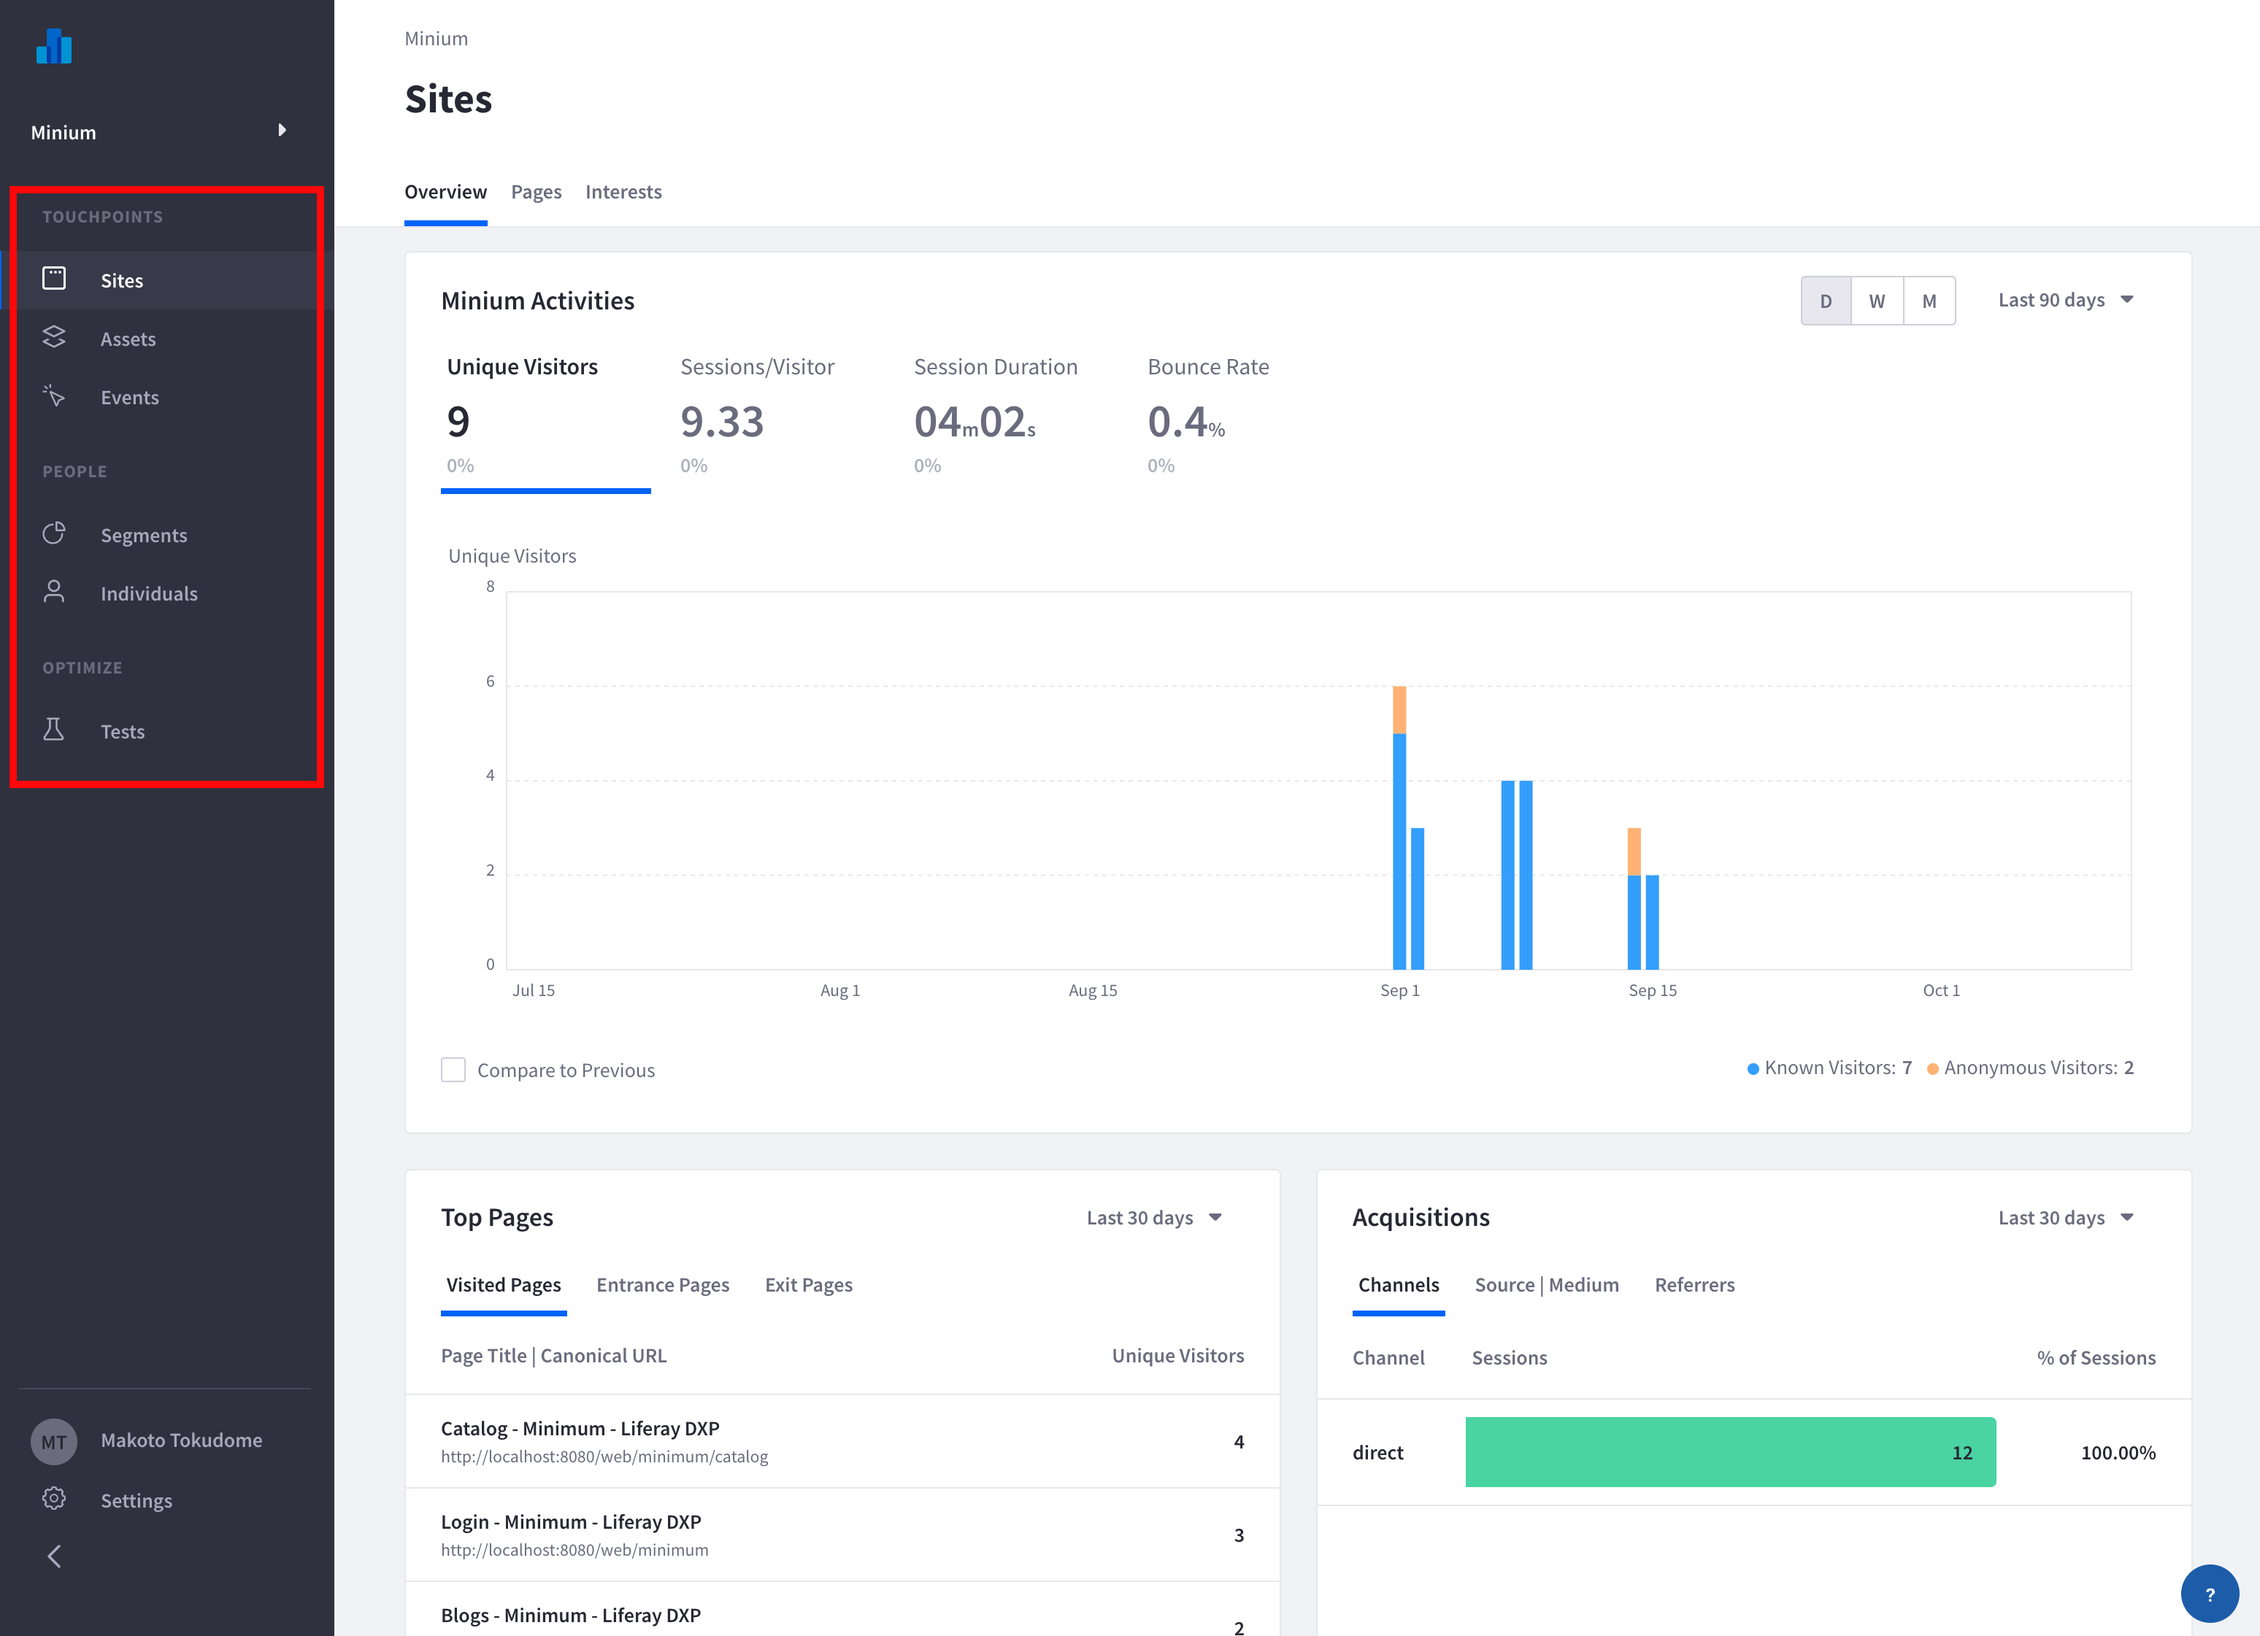
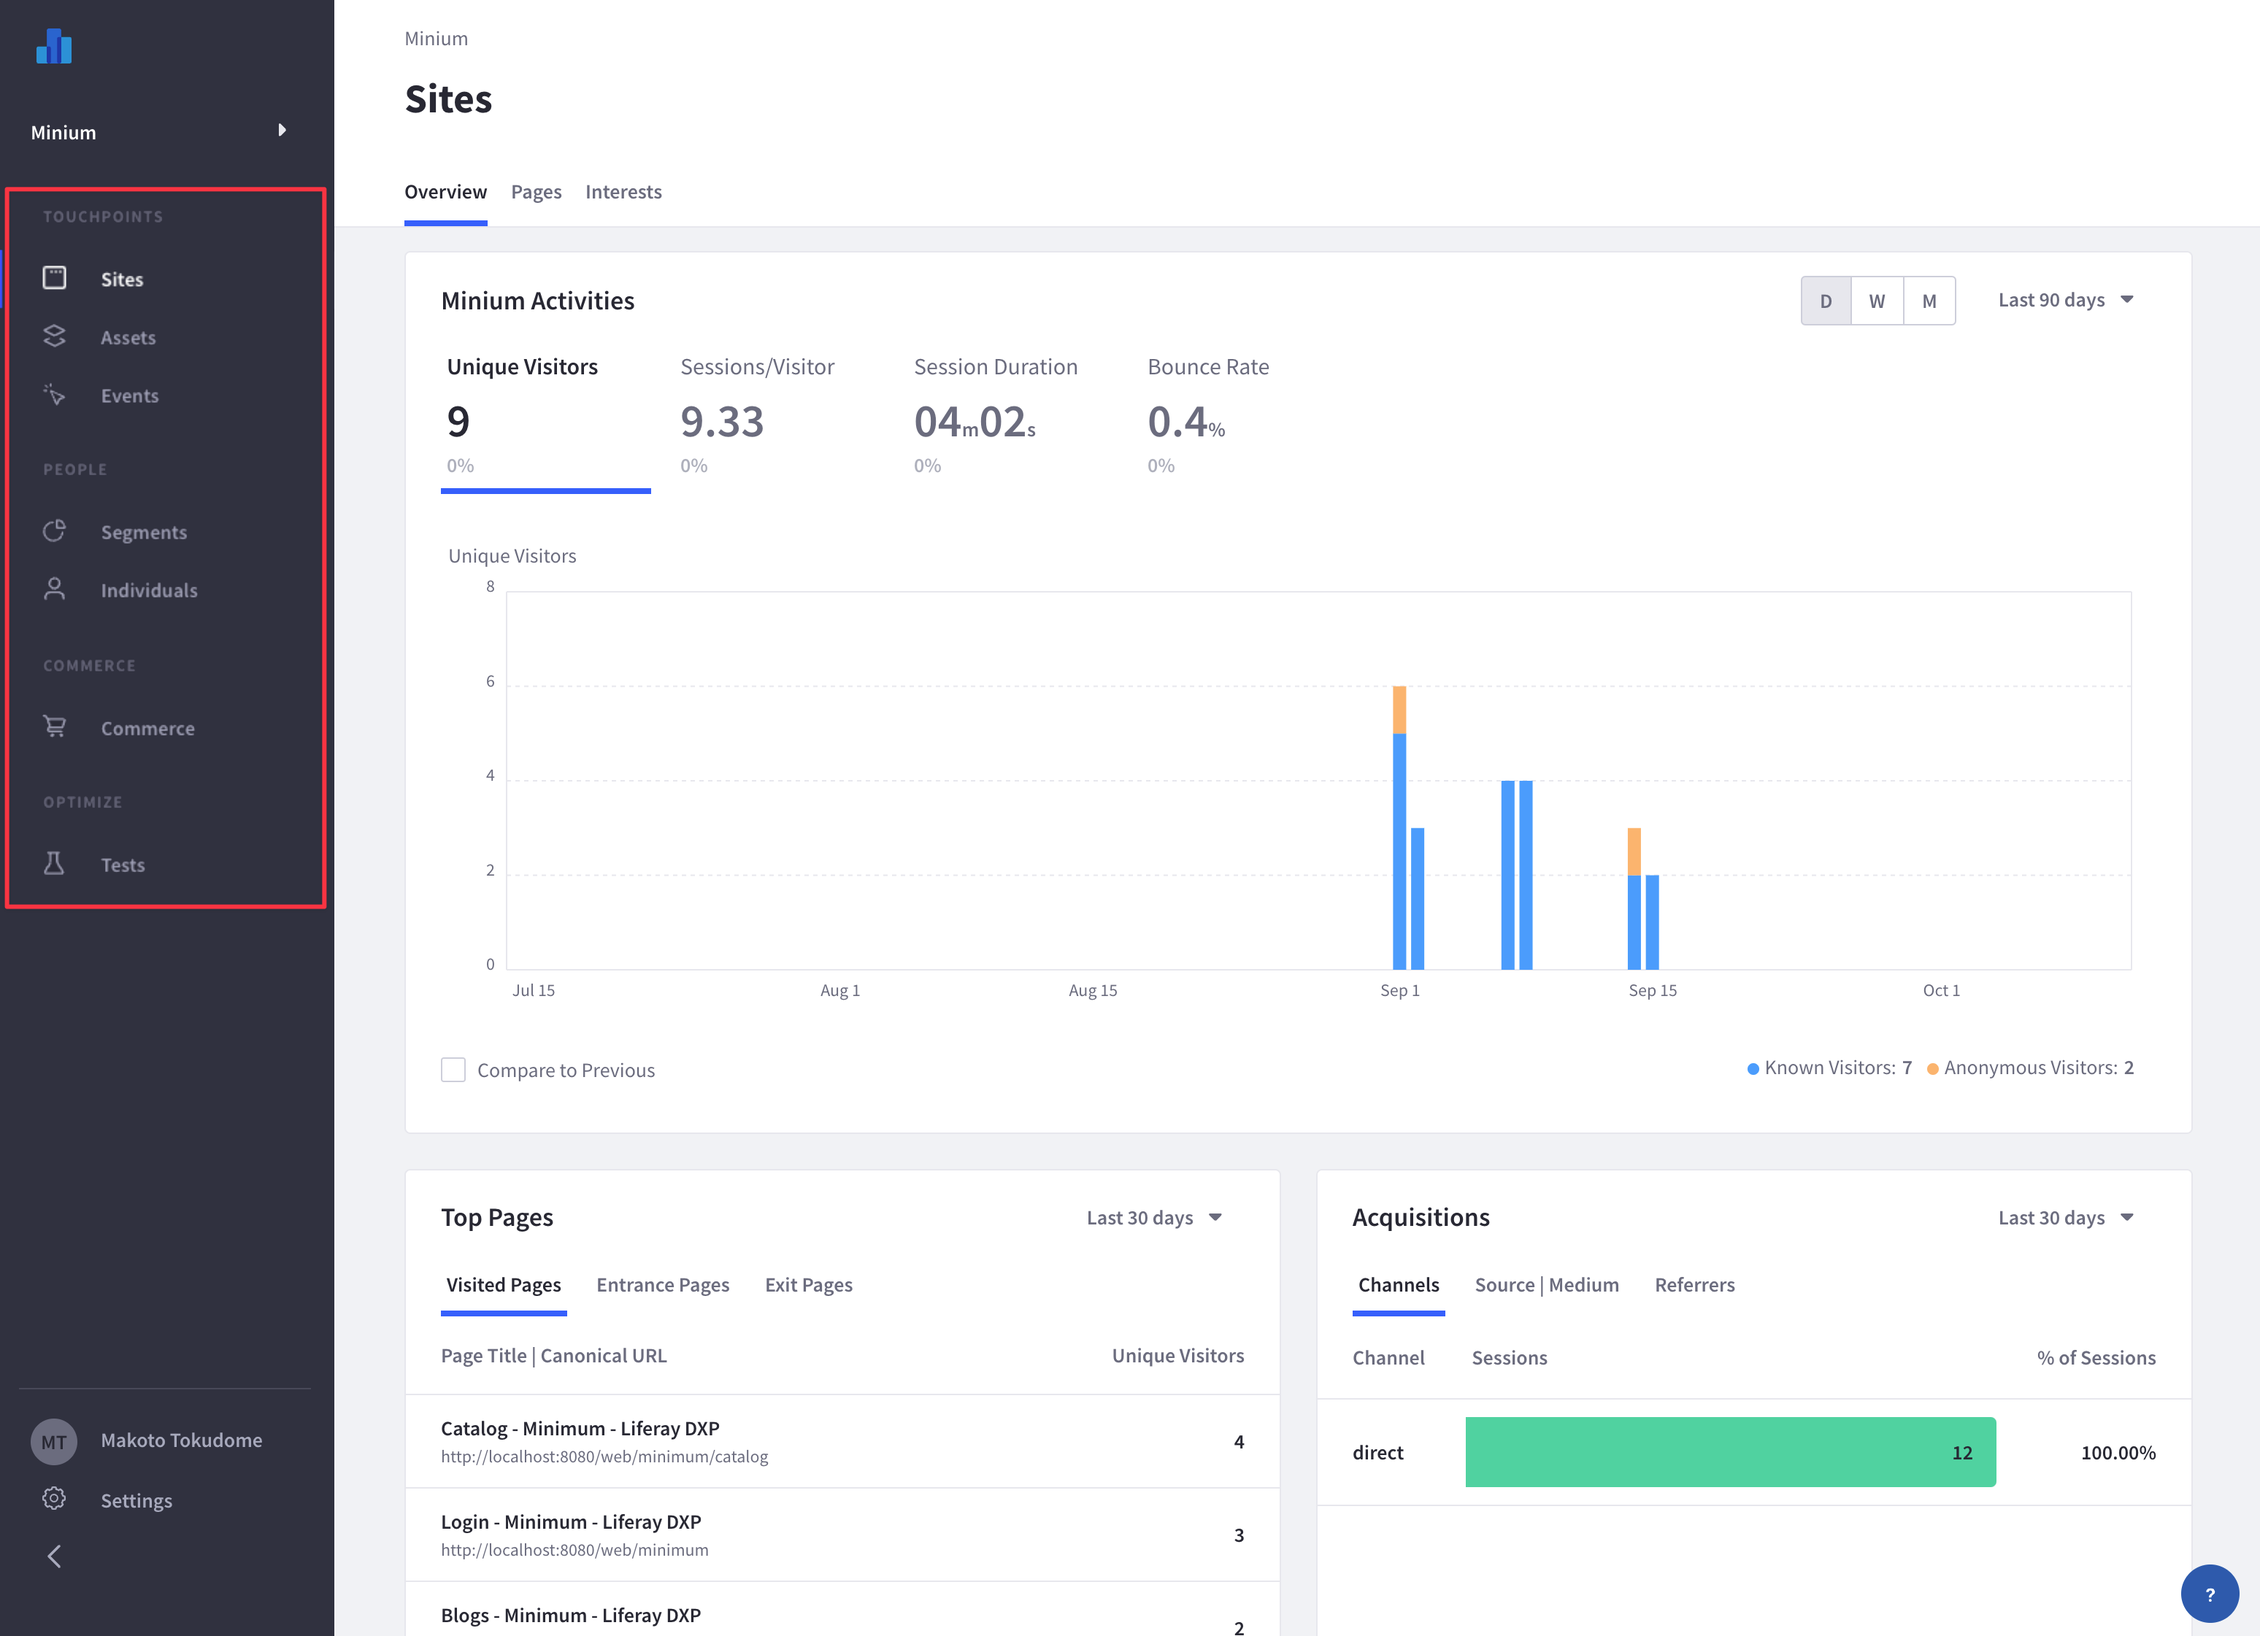
LRDOCS-10561 updates Viewing the Analytics Dashboard w/imgs

diff --git a/docs/analytics-cloud/latest/en/getting-started/viewing-the-analytics-dashboard.md b/docs/analytics-cloud/latest/en/getting-started/viewing-the-analytics-dashboard.md
@@ -3,7 +3,7 @@ uuid: 1f7b693c-0b64-4c16-965b-4cb85875e0f4
 ---
 # Viewing the Analytics Dashboard
 
-Once your [Liferay site and contacts are synced](syncing-sites-and-contacts.md), Analytics Cloud automatically begins tracking visitors to your site and how they're interacting with your site's content. The next steps are to explore the different tools available through the navigation menu on the left.
+Once your [data is synced](./connecting-liferay-dxp-to-analytics-cloud.md), Analytics Cloud automatically begins tracking visitors to your site and how they're interacting with your site's content. The next steps are to explore the different tools available through the navigation menu on the left.
 
 ![Explore the different tools through the left navigation.](viewing-the-analytics-dashboard/images/01.png)
 
@@ -22,6 +22,14 @@ For understanding your audience:
 
 ```{note}
 To explore analytics data based on segments, you must first [Create Segments](../people/segments/creating-segments.md). These are groups of individuals that are aggregated together based on attributes you select.
+```
+
+For understanding your Commerce data:
+
+* [Commerce Dashboard](../commerce/commerce-dashboard.md)
+
+```{note}
+To explore Commerce analytics data, you must sync Commerce channels with Analytics Cloud. See [Connecting Liferay DXP to Analytics Cloud](./connecting-liferay-dxp-to-analytics-cloud.md) for more information.
 ```
 
 For optimizing site content:
